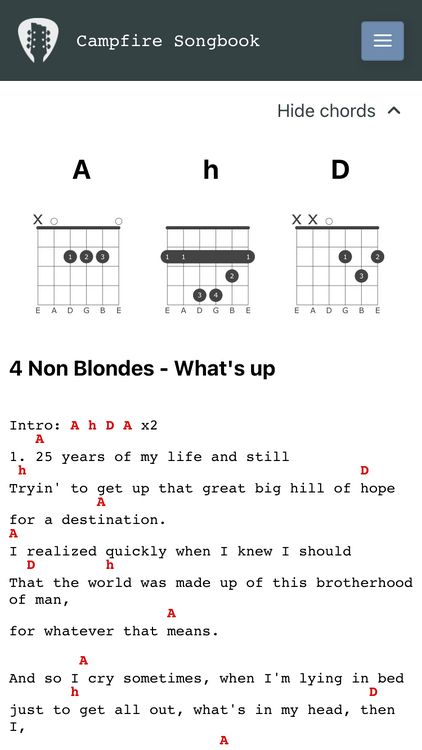
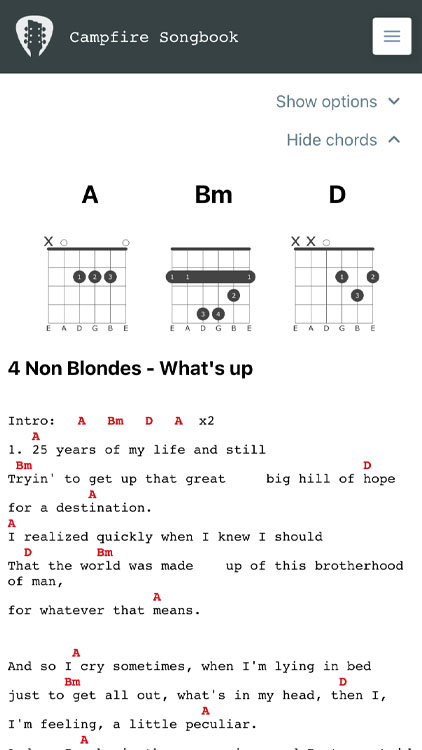
App screenshots updated.

diff --git a/README.md b/README.md
@@ -38,13 +38,21 @@ Song preview with saving to local db and selecting as current song
 
 ![](img/preview_screen.jpg)
 
-Horizontal screen with example chord diagram (with switchable variations)
+Chord diagram (with switchable variations)
 
 ![](img/horizontal_chord_screen.jpg)
 
-About screen with language, instrument (guitar / ukulele) and font size options 
+App options screen
+
+![](img/app_options.jpg)
+
+Preferences screen with language and instrument selection (guitar / ukulele), font size, columns settings and offline mode
 
 ![](img/preferences_horizontal_screen.jpg)
+
+Host options: chords transposition and autoscroll
+
+![](img/transposition_and_autoscroll.jpg)
 
 Song editor screen - creating, updating and deleting songs
 
